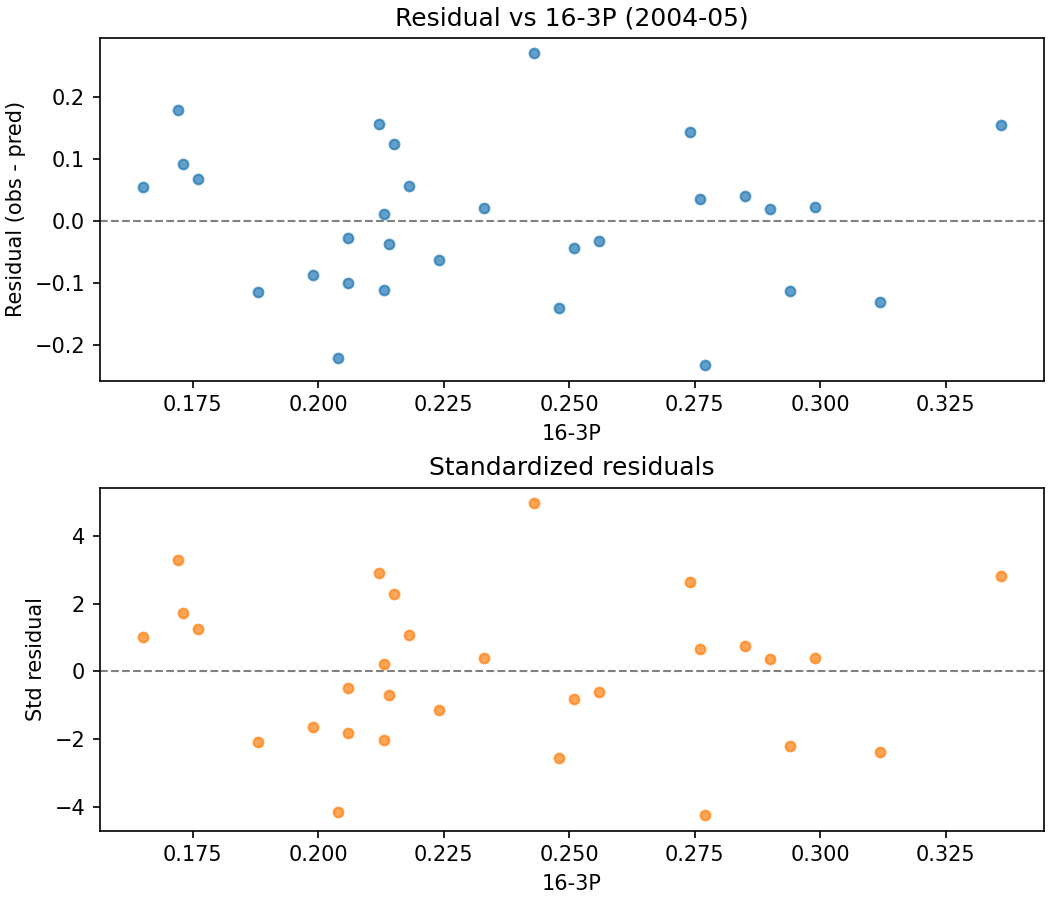
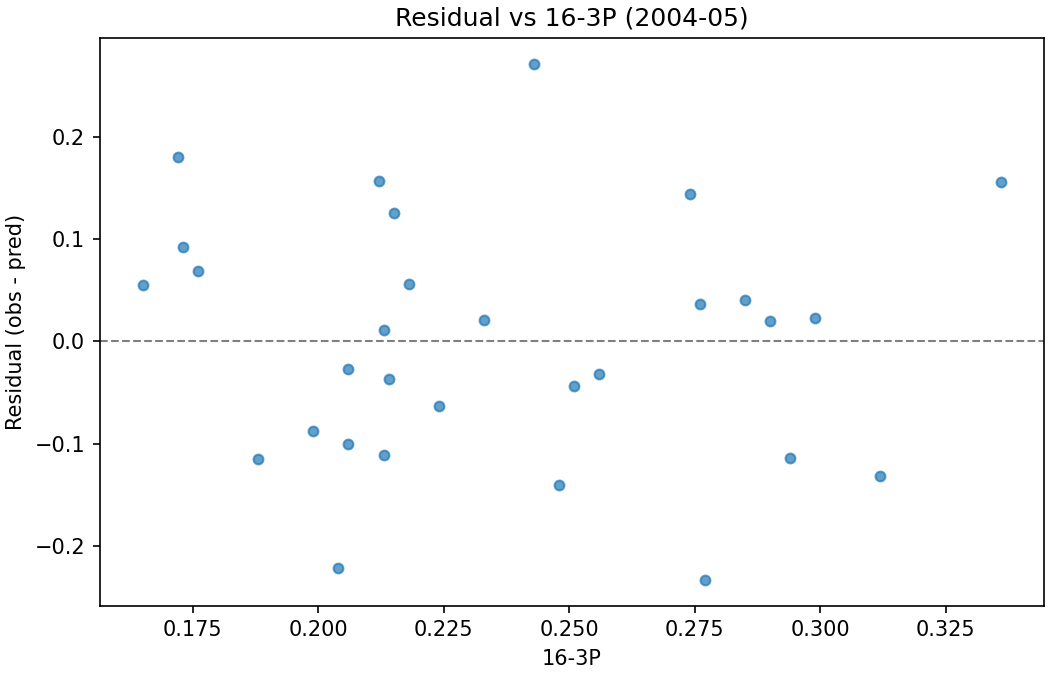
update residual plotting

diff --git a/scripts/bayesian_model.py b/scripts/bayesian_model.py
@@ -244,26 +244,19 @@ def residual_correlations(residuals: np.ndarray, df: pd.DataFrame) -> pd.DataFra
 def plot_residuals(
     df: pd.DataFrame,
     residuals: np.ndarray,
-    std_residuals: np.ndarray,
     season: str,
     output_dir: Path = RESIDUALS_DIR,
 ) -> None:
     for col in DIAGNOSTIC_FEATURE_COLUMNS:
         x = df[col].to_numpy(dtype=float)
 
-        fig, axes = plt.subplots(2, 1, figsize=(7, 6), constrained_layout=True)
+        fig, ax = plt.subplots(figsize=(7, 4.5), constrained_layout=True)
 
-        axes[0].scatter(x, residuals, alpha=0.7, s=22)
-        axes[0].axhline(0.0, color="gray", ls="--", lw=1)
-        axes[0].set_title(f"Residual vs {col} ({season})")
-        axes[0].set_xlabel(col)
-        axes[0].set_ylabel("Residual (obs - pred)")
-
-        axes[1].scatter(x, std_residuals, alpha=0.7, s=22, color="tab:orange")
-        axes[1].axhline(0.0, color="gray", ls="--", lw=1)
-        axes[1].set_title("Standardized residuals")
-        axes[1].set_xlabel(col)
-        axes[1].set_ylabel("Std residual")
+        ax.scatter(x, residuals, alpha=0.7, s=22)
+        ax.axhline(0.0, color="gray", ls="--", lw=1)
+        ax.set_title(f"Residual vs {col} ({season})")
+        ax.set_xlabel(col)
+        ax.set_ylabel("Residual (obs - pred)")
 
         fig.savefig(output_dir / f"{season}_residuals_{col}.png", dpi=150)
         plt.close(fig)
@@ -601,12 +594,10 @@ def main() -> None:
 
         # Residual diagnostics - observed win rate minus predicted win probability
         residuals = observed_win_rate - win_probs
-        var = win_probs * (1 - win_probs) / N_GAMES
-        std_residuals = residuals / np.sqrt(var + 1e-12)
         corr_df = residual_correlations(residuals, df)
         print("Residual correlations with shot shares (Pearson/Spearman):")
         print(corr_df.round(3))
-        plot_residuals(df, residuals, std_residuals, season=season)
+        plot_residuals(df, residuals, season=season)
         plot_feature_contributions(contrib_df, season)
         plot_pred_vs_actual(df["team"].to_list(), win_probs, observed_win_rate, season)
 
